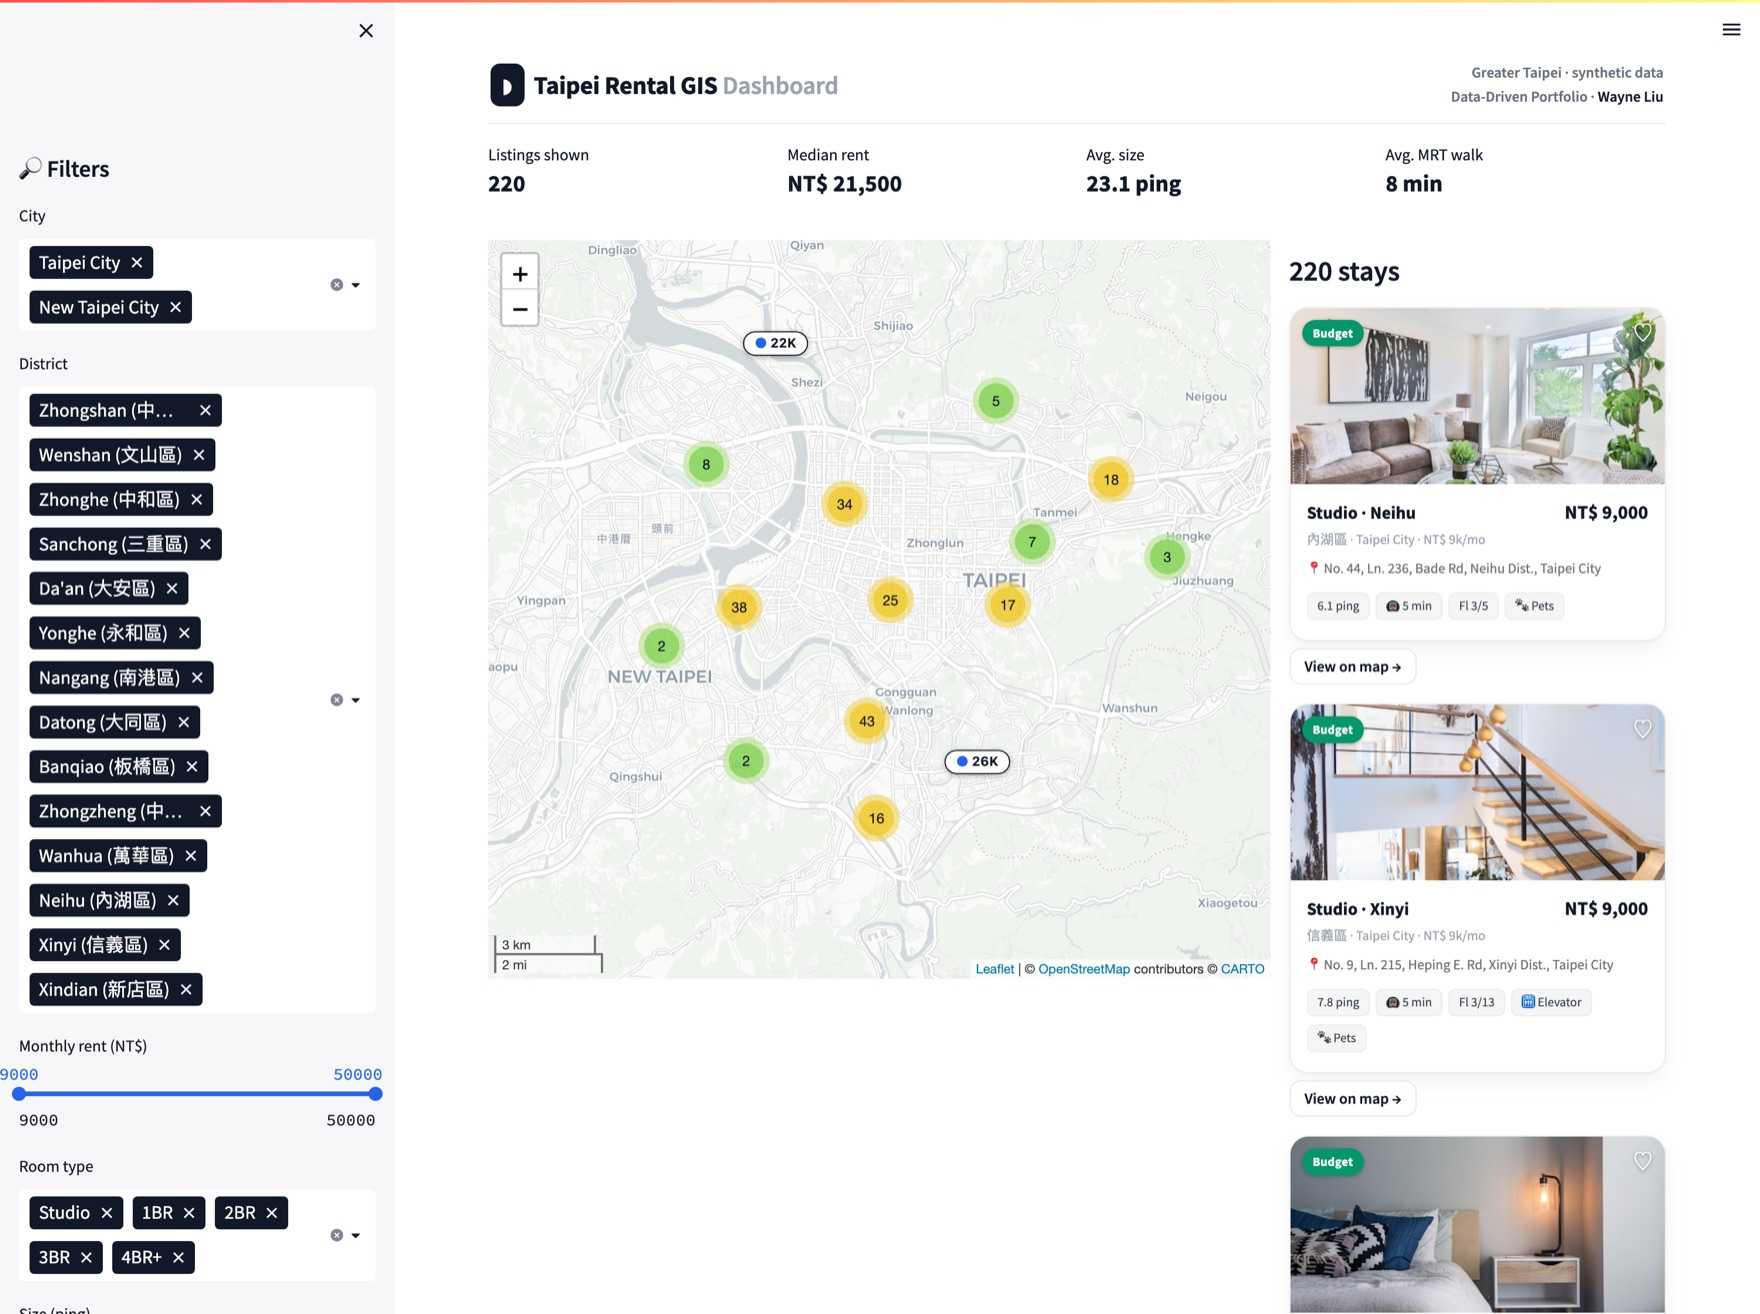
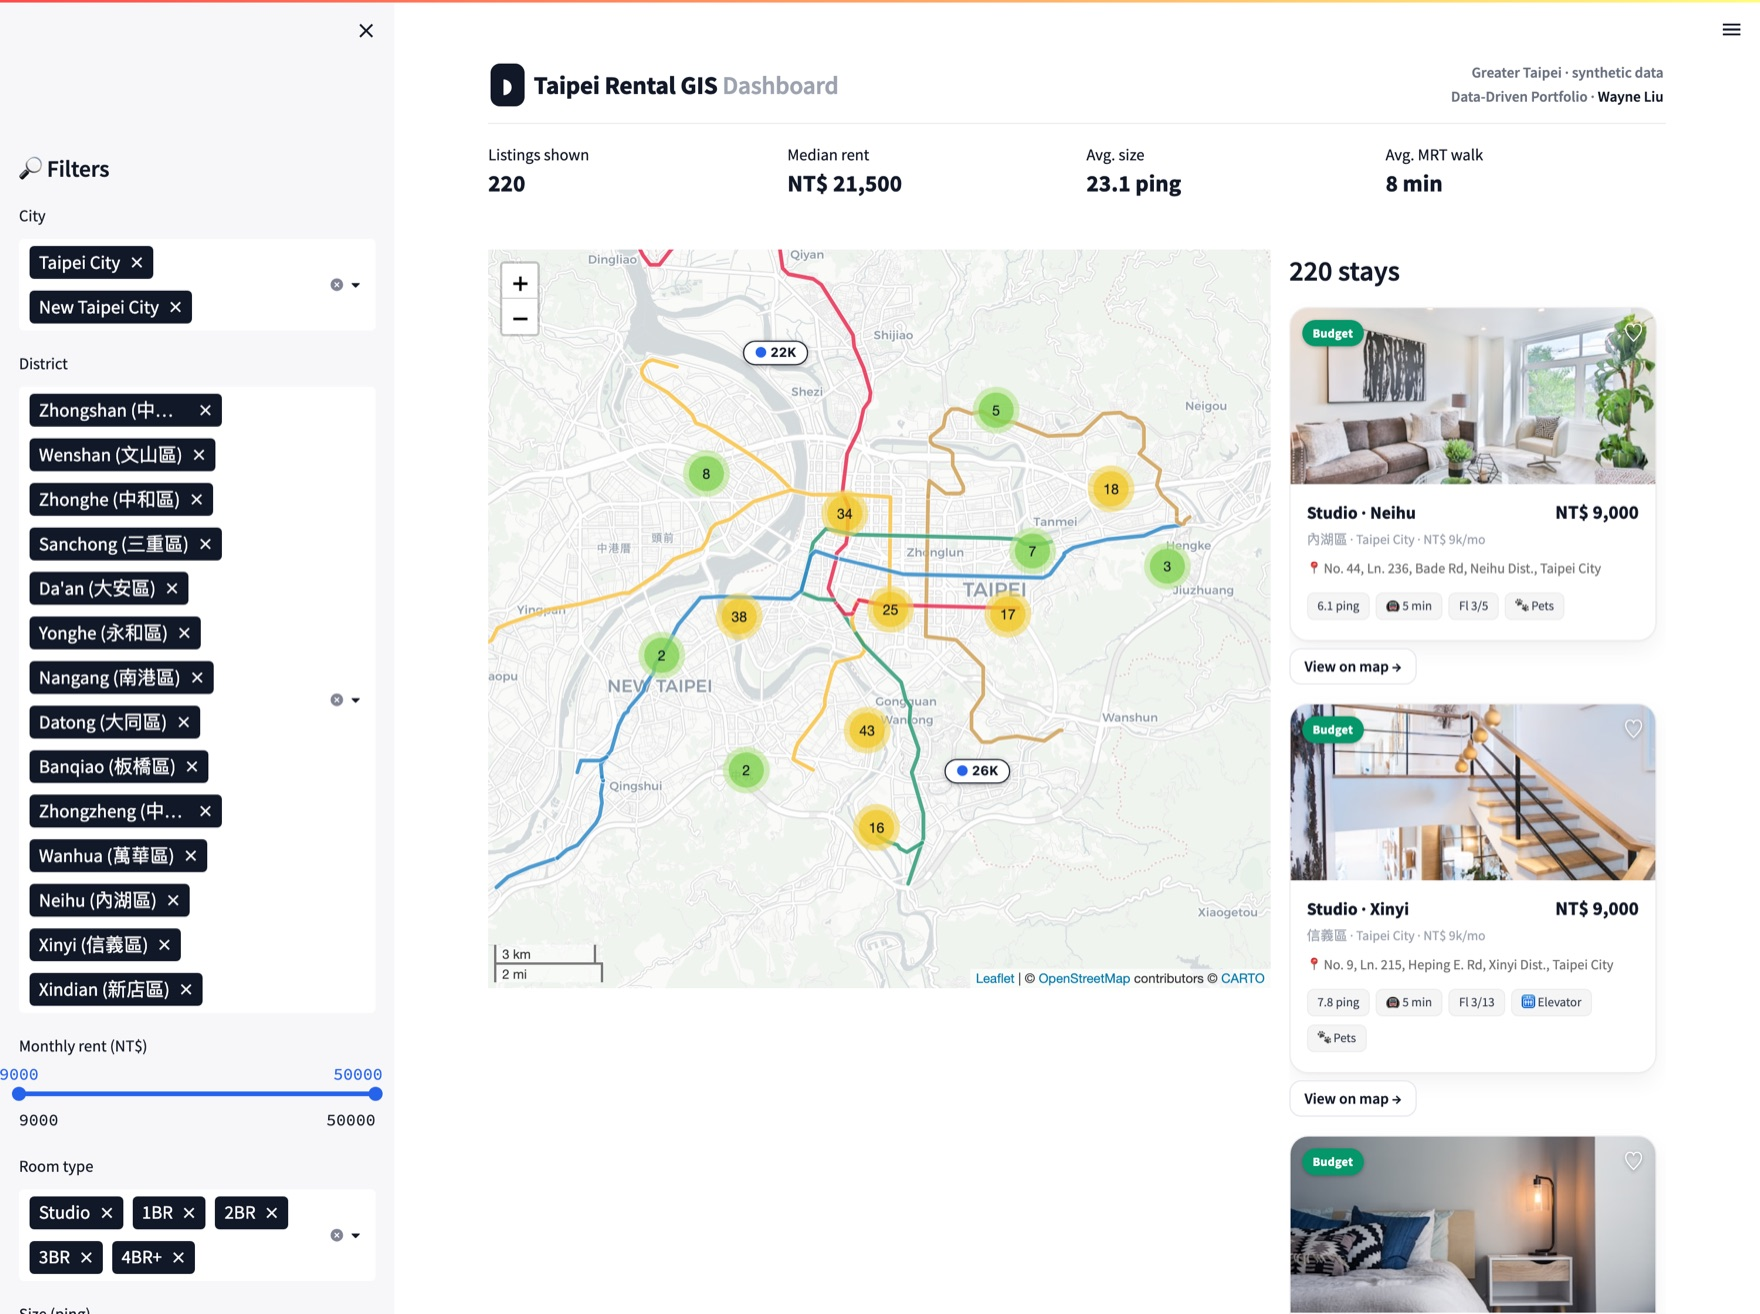
Add Taipei MRT overlay + pin map while listings scroll
- Draw the Taipei MRT network in official line colours (open data:
  leoluyi/taipei_mrt), rendered under the listing markers
- Listing column now scrolls in its own pane so the map stays in view
- Trim rendered cards to 24; add MRT legend to the sidebar
- New src/mrt.py + 4 tests (29 total); refresh hero screenshot

diff --git a/app.py b/app.py
@@ -23,7 +23,7 @@ import folium
 from folium.plugins import MarkerCluster
 from streamlit_folium import st_folium
 
-from src import config, database, generate_data, media
+from src import config, database, generate_data, media, mrt
 
 # Build the SQLite database on first run (e.g. fresh clone / Streamlit Cloud,
 # where there is no separate build step). No-op once the file exists.
@@ -100,6 +100,19 @@ st.markdown(
     .stButton button { border-radius:10px; border:1px solid #E5E7EB; color:#111827;
         font-weight:600; font-size:.82rem; background:#fff; }
     .stButton button:hover { border-color:#111827; color:#111827; background:#FAFAFA; }
+
+    /* ---- keep the map pinned while only the listing column scrolls ---- */
+    /* map column (the one holding the Folium iframe) */
+    div[data-testid="column"]:has(iframe) {
+        position: sticky; top: 0.5rem; align-self: flex-start; z-index: 5;
+    }
+    /* listing column = the column right after the map column */
+    div[data-testid="column"]:has(iframe) + div[data-testid="column"] {
+        max-height: 86vh; overflow-y: auto; padding-right: 8px;
+    }
+    div[data-testid="column"]:has(iframe) + div[data-testid="column"]::-webkit-scrollbar { width: 7px; }
+    div[data-testid="column"]:has(iframe) + div[data-testid="column"]::-webkit-scrollbar-thumb {
+        background: #D1D5DB; border-radius: 4px; }
     </style>
     """,
     unsafe_allow_html=True,
@@ -155,8 +168,15 @@ legend_html = "**Price band (NT$/mo)**  \n".replace("$", "&#36;") + "  \n".join(
     for name, _, _, color in config.PRICE_BANDS
 )
 st.sidebar.caption(legend_html, unsafe_allow_html=True)
+
+mrt_legend = "**MRT lines**  \n" + "  \n".join(
+    f"<span class='dot' style='background:{color}'></span>{name}"
+    for name, color in mrt.legend()
+)
+st.sidebar.caption(mrt_legend, unsafe_allow_html=True)
+
 st.sidebar.caption("⚠ All data is randomly generated for this demo. Photos are royalty-free "
-                   "stock images — no real listings or company data.")
+                   "stock images — no real listings or company data. MRT geometry: open data.")
 
 # ---------------------------------------------------------------------------
 # Query
@@ -223,6 +243,7 @@ with col_map:
 
     fmap = folium.Map(location=center, zoom_start=zoom, tiles=config.MAP_TILES,
                       control_scale=True)
+    mrt.add_mrt_layer(fmap)  # Taipei MRT network (under the listing markers)
     cluster = MarkerCluster(disableClusteringAtZoom=15).add_to(fmap)
 
     for _, row in df.iterrows():
@@ -271,7 +292,7 @@ with col_list:
         ordered["_sel"] = (ordered["id"] == st.session_state.selected_id).astype(int)
         ordered = ordered.sort_values(["_sel", "price"], ascending=[False, True])
 
-        for _, row in ordered.head(40).iterrows():
+        for _, row in ordered.head(24).iterrows():
             is_sel = row["id"] == st.session_state.selected_id
             bcolor = config.band_color(row["price_band"])
             pnum = media.photo_number(int(row["id"]), row["room_type"])
@@ -308,8 +329,8 @@ with col_list:
                 st.session_state.selected_id = int(row["id"])
                 _rerun()
 
-        if len(df) > 40:
-            st.caption(f"Showing first 40 of {len(df)} listings — narrow the filters to see more.")
+        if len(df) > 24:
+            st.caption(f"Showing first 24 of {len(df)} listings — narrow the filters to see more.")
 
 # ---------------------------------------------------------------------------
 # Detail panel (hero photo + full info)

diff --git a/src/mrt.py b/src/mrt.py
@@ -1,0 +1,48 @@
+"""
+Taipei MRT network overlay for the Folium map.
+
+Line geometry comes from the open-source ``leoluyi/taipei_mrt`` dataset
+(public MRT route data), pre-processed into ``assets/taipei_mrt.json`` as
+lat/lon paths tagged with each line's official Taipei Metro colour.
+"""
+
+import json
+from functools import lru_cache
+
+try:
+    from src import config
+except ImportError:  # pragma: no cover
+    import config
+
+MRT_PATH = config.PROJECT_ROOT / "assets" / "taipei_mrt.json"
+
+
+@lru_cache(maxsize=1)
+def mrt_segments() -> list:
+    if not MRT_PATH.exists():
+        return []
+    return json.loads(MRT_PATH.read_text(encoding="utf-8")).get("lines", [])
+
+
+def legend() -> list:
+    """Ordered list of (line_name, color) for the sidebar legend."""
+    seen = {}
+    for seg in mrt_segments():
+        seen.setdefault(seg["line"], seg["color"])
+    return list(seen.items())
+
+
+def add_mrt_layer(fmap, weight: float = 3.2, opacity: float = 0.7):
+    """Draw the MRT lines onto a Folium map (below the listing markers)."""
+    import folium
+
+    for seg in mrt_segments():
+        for path in seg["paths"]:
+            if len(path) < 2:
+                continue
+            # subtle white casing for a cleaner "metro map" look at crossings
+            folium.PolyLine(path, color="#ffffff", weight=weight + 1.8,
+                            opacity=0.55).add_to(fmap)
+            folium.PolyLine(path, color=seg["color"], weight=weight,
+                            opacity=opacity, tooltip=f"{seg['line']} Line").add_to(fmap)
+    return fmap

diff --git a/tests/test_mrt.py b/tests/test_mrt.py
@@ -1,0 +1,34 @@
+"""Tests for the Taipei MRT overlay data."""
+from src import mrt
+
+TAIPEI_BBOX = {"lat": (24.85, 25.30), "lon": (121.25, 121.80)}
+EXPECTED_LINES = {"Tamsui–Xinyi", "Songshan–Xindian", "Zhonghe–Xinlu", "Bannan", "Wenhu"}
+
+
+def test_segments_present():
+    segs = mrt.mrt_segments()
+    assert len(segs) >= 10
+    for s in segs:
+        assert {"zh", "line", "color", "paths"} <= set(s)
+        assert s["color"].startswith("#")
+        assert s["paths"] and all(len(p) >= 2 for p in s["paths"])
+
+
+def test_all_official_lines_covered():
+    lines = {s["line"] for s in mrt.mrt_segments()}
+    assert EXPECTED_LINES <= lines
+
+
+def test_coords_within_taipei_and_latlon_order():
+    for s in mrt.mrt_segments():
+        for path in s["paths"]:
+            for lat, lon in path:
+                assert TAIPEI_BBOX["lat"][0] < lat < TAIPEI_BBOX["lat"][1]
+                assert TAIPEI_BBOX["lon"][0] < lon < TAIPEI_BBOX["lon"][1]
+
+
+def test_legend_unique_ordered():
+    leg = mrt.legend()
+    names = [n for n, _ in leg]
+    assert len(names) == len(set(names))  # unique
+    assert EXPECTED_LINES <= set(names)

diff --git a/README.md b/README.md
@@ -25,6 +25,10 @@ on a **SQLite** backend.
 
 - **Interactive Folium map** with Airbnb-style **price-pill markers** (white →
   black when selected), marker clustering, and a clean CartoDB Positron basemap.
+- **Taipei MRT network overlay** drawn in the official line colours (Tamsui–Xinyi,
+  Songshan–Xindian, Zhonghe–Xinlu, Bannan, Wenhu).
+- **Pinned map, scrollable listings** — the map stays in view while the property
+  cards scroll in their own pane (Airbnb desktop layout).
 - **220 synthetic listings** across **14 districts** of Taipei City & New Taipei
   City, scattered around real district centroids.
 - **Six live filters** — city, district, monthly rent, room type, unit size, and
@@ -125,6 +129,10 @@ This is a **public portfolio project**, so it ships with **synthetic data only**
   no attribution required) and are illustrative, not pictures of real units.
 - Rent figures are indicative and reflect a managed-rental price band, not the
   current open market.
+
+**Credits:** Taipei MRT line geometry is derived from the open-source
+[`leoluyi/taipei_mrt`](https://github.com/leoluyi/taipei_mrt) dataset (public
+route data). Basemap © OpenStreetMap contributors, © CARTO.
 
 ---
 
